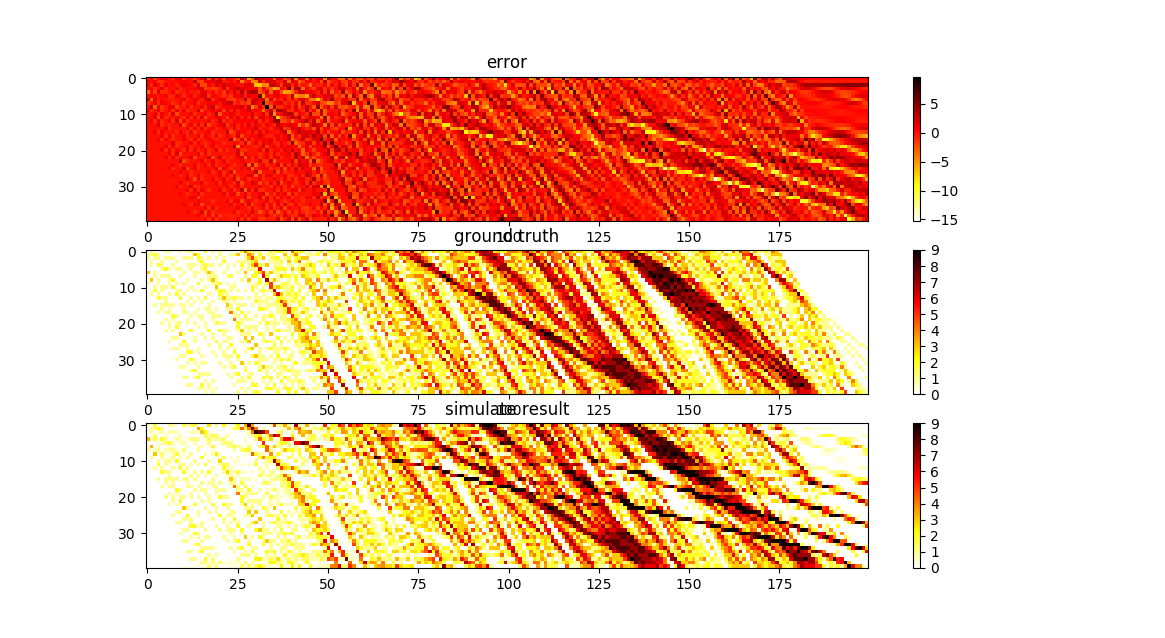
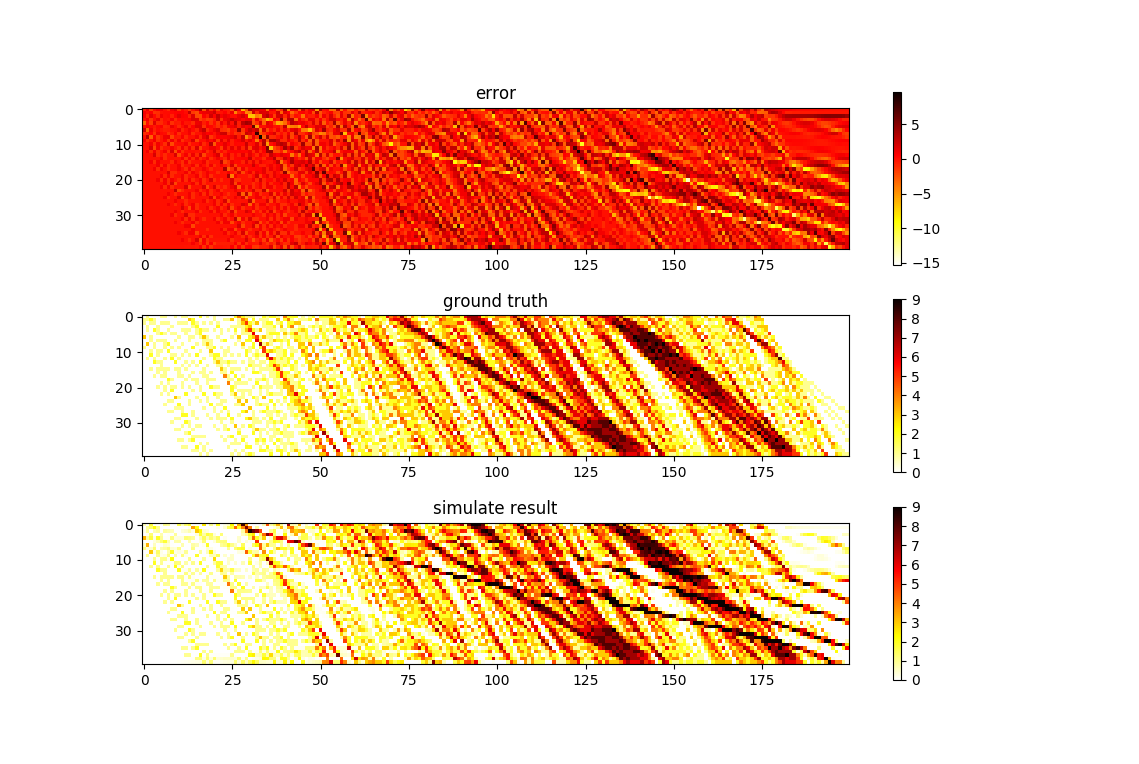
添加了新的损失函数项

diff --git a/src/train.py b/src/train.py
@@ -48,6 +48,9 @@ def main():
     parser.add_argument('--sample_rate', type=float, default=1)
     parser.add_argument('--sample_decay', type=float, default=0.02)
     parser.add_argument('--use_pool', type=bool, default=False)
+    parser.add_argument('--use_mask', type=bool, default=False)
+    parser.add_argument('--use_simerror', type=bool, default=False)
+    parser.add_argument('--gamma', type=float, default=0.5)
 
     # 数据参数
     parser.add_argument('--sim_step', type=float, default=0.1)
@@ -55,7 +58,6 @@ def main():
     parser.add_argument('--cycle', type=int, default=100)
     parser.add_argument('--green_pass', type=int, default=52)
     parser.add_argument('--yellow_pass', type=int, default=55)
-    parser.add_argument('--mask_level', type=int, default=3)
 
     # 模型相关
     parser.add_argument('--model_prefix', type=str, default='multi_dimension')
@@ -93,6 +95,7 @@ def train(args):
         
         # 初始化损失函数
         criterion = loss_function()
+        sim_error_criterion = torch.nn.ReLU()
         pool = torch.nn.AvgPool1d(3, stride=1, padding=1)
         
         # 学习率的设置
@@ -171,7 +174,6 @@ def train(args):
                     inflow = torch.cat((In, output[:, :spatial_size-1,:]), 1)
                     number_caculate = number_before + inflow - output
 
-                    mask = get_mask(target[:, :, :, 0])
                     if args.use_pool:
                         number_caculate = number_caculate.transpose(1, 2)
                         number_current = number_current.transpose(1, 2)
@@ -179,9 +181,14 @@ def train(args):
                         number_current = pool(number_current)
                         number_caculate = number_caculate.transpose(1, 2)
                         number_current = number_current.transpose(1, 2)
-                
+
+                    if args.use_mask:
+                        mask = get_mask(target[:, :, :, 0])
+                        mes_loss = criterion(target[:, :, :, 0], output, mask)
+                    else:
+                        mes_loss = criterion(target[:, :, :, 0], output)
+
                     flow_loss = criterion(number_current, number_caculate)
-                    mes_loss = criterion(target[:, :, :, 0], output, mask)
                     loss = args.flow_loss_weight * flow_loss + (2 - args.flow_loss_weight) * mes_loss
 
                 else:
@@ -192,6 +199,7 @@ def train(args):
                         output, [hidden_state, cell_state] = net.train_infer(input_data, hidden_state, cell_state)
 
                     input_data = data[:, :, args.t_predict]
+                    last_error = [0]
                     loss = 0
 
                     for t in range(args.temporal_length-args.t_predict):
@@ -204,7 +212,6 @@ def train(args):
                         number_caculate = number_before + inflow - output
                         input_data = torch.cat((output, inflow, number_caculate), 2)
 
-                        mask = get_mask(target[:, :, t, 0].view(batch_size, spatial_size, 1))
                         if args.use_pool:
                             number_caculate = number_caculate.transpose(1, 2)
                             number_current = number_current.transpose(1, 2)
@@ -213,9 +220,22 @@ def train(args):
                             number_caculate = number_caculate.transpose(1, 2)
                             number_current = number_current.transpose(1, 2)
 
+                        if args.use_mask:
+                            mask = get_mask(target[:, :, t, 0].view(batch_size, spatial_size, 1))
+                            mes_loss = criterion(target[:, :, t, 0].view(batch_size, spatial_size, 1), output, mask)
+                        else:
+                            mes_loss = criterion(target[:, :, t, 0].view(batch_size, spatial_size, 1), output)
+
+                        if args.use_simerror:
+                            current_error = target[:, :, t, 0].view(batch_size, spatial_size, 1) - output
+                            sim_error = sim_error_criterion(last_error[t]*(current_error))
+                            sim_error = torch.mean(sim_error)
+                            last_error.append(current_error)
+                        else:
+                            sim_error = 0
+
                         flow_loss = criterion(number_current, number_caculate)
-                        mes_loss = criterion(target[:, :, t, 0].view(batch_size, spatial_size, 1), output, mask)
-                        loss += args.flow_loss_weight * flow_loss + (2 - args.flow_loss_weight) * mes_loss
+                        loss += args.flow_loss_weight * flow_loss + (2 - args.flow_loss_weight) * mes_loss + args.gamma * sim_error
 
                     loss = loss / (args.temporal_length-args.t_predict)
                     

diff --git a/src/model.py b/src/model.py
@@ -436,7 +436,7 @@ class loss_function(nn.Module):
 
         self.epsilon = epsilon
 
-        self.criterion = nn.MSELoss(reduction='sum')
+        self.criterion = nn.MSELoss()
         #self.criterion = nn.SmoothL1Loss()
         
     def forward(self, target, output, mask=None):

diff --git a/README.md b/README.md
@@ -321,10 +321,10 @@
 
 > ## 9-16
 > * 上次修改过之后的mask还是不能很好地避免过小的问题，准确性还可以，同时测了一下几个不同cell的长时间撤离推演下的结果:
-> > ![cell1](dataFile/pics/cell1_eva.png)
-> > ![cell2](dataFile/pics/cell2_eva.png)
-> > ![cell3](dataFile/pics/cell3_eva.png)
-> > ![cell4](dataFile/pics/cell4_eva.png)
+> > ![cell1](dataFile/pics/up_cell1_eva.png)
+> > ![cell2](dataFile/pics/up_cell2_eva.png)
+> > ![cell3](dataFile/pics/up_cell3_eva.png)
+> > ![cell4](dataFile/pics/up_cell4_eva.png)
 > * 表现最好的是cell3，cell1与cell4都出现了完全失真的抖动，cell在局部出现了剧烈的抖动，但是大多数情况下都可以很好地拟合实际的路段中的存量变化的规律，而cell3在仿真的四种情况下（1500-2000路段 1-2车道数）都没有出现剧烈的抖动情况
 > * 另外一点，整体运算速度很快，虽然没有直接的测量，但是整体上感觉会比sumo仿真的结果要快一些
 
@@ -357,14 +357,14 @@
 
 > * 总结一下，目前来看，至少在两千米的路段上cell3的拟合能力已经足够好，接下来可以进一步的做一些实验看看有没有进一步的进步，但是整体上需要开始考虑下一步路网的构建
 > * 构建路网（目前不考虑红绿灯）所需要的一个关键的部件就是匝道，现在构想的模型输入输出是这样的：
-> > ![ramp struct](dataFile/pics/ramp_struct.png)
+> > ![ramp struct](dataFile/pics/up_ramp_struct.png)
 > > * 每一个路口固定成某个固定的图结构，节点$u$在时间$t$对于的输入为$x_t^u=[i_t^u,o^t_u,n_t^u]^T与隐层状态h_{t-1}^u$；输入的是这个图中所有节点的对应输入
 > > * 输出是路口相关节点的隐层状态$h_t^u$，不与路口直接相连的节点通过之前所训练的模型进行预测仿真
 > > * 为了保证整体仿真的一致性，输出的隐层状态同样应该使用前一阶段的模型中的outputlayer对实际流出量做出预测，在训练阶段需要与前面阶段的模型进行联合训练，以确保两者的隐层状态可以通用
 
 > ## 9-19
 > * cell3_sp
-> > ![cell3](dataFile/pics/cell3_sp_2000_2_eva.png)
+> > ![cell3](dataFile/pics/up_cell3_sp_2000_2_eva.png)
 
 ||20|40|200|  
 |:--:|:--:|:--:|:--:|
@@ -373,7 +373,7 @@
 |Median|1.72|1.85|3.78|
 
 > * cell2_sp
-> > ![cell2](dataFile/pics/cell2_sp_2000_2_eva.png)
+> > ![cell2](dataFile/pics/up_cell2_sp_2000_2_eva.png)
 
 ||20|40|200|  
 |:--:|:--:|:--:|:--:|
@@ -383,4 +383,34 @@
 
 > * 和毛老师讨论了一下进一步要做的事情：
 > > * 第一个要做的就是做一个热力图，热力图做出来的结果是这样的：
-> > ![cell3 eva heat](dataFile/pics/cell3_eva_heat_fake.png)
+> > ![cell3 eva error](dataFile/pics/up_cell3_eva_error.png)
+> > ![cell3 eva heat](dataFile/pics/up_cell3_eva_heat_fake.png)
+> > * 进一步地加入了新的flow loss的情况下对cell3进行训练，然后再做另外一种结果进行对比
+> > * 同时需要做一下路口的拓扑的确定，这个方面比之前想的要复杂一些，这里可能会有主次道路的区分，这一点要根据sumo内部的设计来做相应的不同的拓扑
+
+> ## 9-20
+> * 可以看到新加损失函数之后整体上训练速度大概慢了六分之一左右，应该是由于pool操作与反向传播过程带来的
+> * 在这里我们做一些简单的数学上面的分析：
+> > * 将问题整体简化一下，对于一个机器学习模型$\mathcal{M}$，可以完成从输入到输出的映射，即$x\stackrel{\mathcal{M}}{\rightarrow}\hat{y}$，我们把这个模型造成的误差记做$y-\hat{y}=\mathcal{E}_1(M,x)$  
+> > * 我们采用这个模型进行仿真过程就可以描述成$x_0\stackrel{\mathcal{M}}{\rightarrow}\hat{y}_0,\hat{y}_0\stackrel{\mathcal{P}}{\rightarrow}\hat{x}_1; x_1\stackrel{\mathcal{M}}{\rightarrow}\hat{y}_1, \hat{y}_0\stackrel{\mathcal{P}}{\rightarrow}\hat{x}_1;......$这样的过程,其中$\mathcal{P}$是给定的从预测的输出转换成下一个时刻的输入函数，与$\mathcal{M}$无关，因为$\mathcal{P}$是预先根据仿真的条件而给定的，所以我们可以将每个时刻的输入与实际输入产生的误差归结为由于机器学习模型而产生的，记做$x_t-\hat{x}_t=\mathcal{E}_2(\mathcal{M},\hat{x}_{t-1})$
+> > * 那么任意时刻的模型预测值与实际之间的误差可以表示成：
+> > $$\begin{aligned}
+> >   x_t - \hat{x}_t &= \mathcal{E}_2(\mathcal{M},\hat{x}_{t})\\
+> >                     &= \mathcal{E}_2(\mathcal{M},x_t+\mathcal{E}_2(\mathcal{M}, \hat{x}_{t-1})) 
+> > \end{aligned}$$ 
+> > * 这里我们做出一个假设，就是从输出转换到输入的转换函数是严格正确的，而且越接近实际输出值$\hat{y}$，经过转换之后与下一个时刻的实际输入越接近，即若$|\hat{y}-y_t| \leq |\hat{y}'-y_t|$则$|\mathcal{P}(\hat{y})-x_{t+1}|\leq|\mathcal{P}(\hat{y}')-x_{t+1}|$。由于仿真函数是严格正确的，所以我们可以选择比较$\{\hat{x}_t\}与\{x_t\}$之间的差异
+> > * 首先我们加一个比较强的条件，就是模型$\mathcal{M}$可以永续的对过程进行模拟，也就是说始终存在一个误差的上界$\epsilon_{upper}$，使得$\forall t,|x_t-\hat{x}_t|\leq\epsilon_{upper}$，在有限的仿真时长里某一个时刻的误差$e_{u}=x_t-\hat{x}_t$，下一个时刻的损失就可以记做：
+> > $$e_n=\mathcal{E}_2(\mathcal{M},x_t+e_{u}) $$
+
+> ## 9-23
+> * 规范的数学上的分析还是有点困难，今天继续整理一下
+> > * 问题还是描述成，对于一个机器学习模型$\mathcal{M}$，可以完成从输入到输出的映射，即$x\stackrel{\mathcal{M}}{\rightarrow}\hat{y}$，另外给定一个从输出到下一个时刻输入的映射函数$\mathcal{P}$，采用这个模型进行仿真过程就可以描述成$x_0\stackrel{\mathcal{M}}{\rightarrow}\hat{y}_0,\hat{y}_0\stackrel{\mathcal{P}}{\rightarrow}\hat{x}_1; x_1\stackrel{\mathcal{M}}{\rightarrow}\hat{y}_1, \hat{y}_0\stackrel{\mathcal{P}}{\rightarrow}\hat{x}_1;......$这样的过程
+> > * 因为我们可以假设映射函数$\mathcal{P}$是基于现实世界可以显式表示的规律而确定的（例如在我们仿真的例子中前一阶段的输出就是下一段的输入，bucket内部车辆数等于前一个时刻的车辆数加上流入量减去流出量等）所以整体上造成误差的就是由模型本身带来的，我们关注$\{\hat{y}_t\}$随时间变化的规律
+> > $$e_{t}=\hat{y}_t-y_t=\mathcal{E}(\mathcal{P}(y_{t-1}+e_{t-1});\mathcal{M})$$
+> > * 这里要降低模型的仿真误差的方式，可以尝试以下的方式调整损失函数：
+> > $$\mathcal{Loss}=(\hat{y_t}-y_t)^2 + \gamma ReLU(e_{t-1}(\hat{y}_t-y_t))$$
+> > * 损失函数后加的一项只有在现在偏差与之前累积偏差同号时才会有误差值，而且累积偏差值越大，损失就越大。损失函数中这一项在sampling的过程中再加上
+> * 另外对比了一下几个不同的实验结果发现：
+>   + mask的使用会改善乱流的现象
+>   + flow loss的减少也会减少乱流的现象
+>   + pool的增加并没有改善效果反而加重了局部的乱流现象
